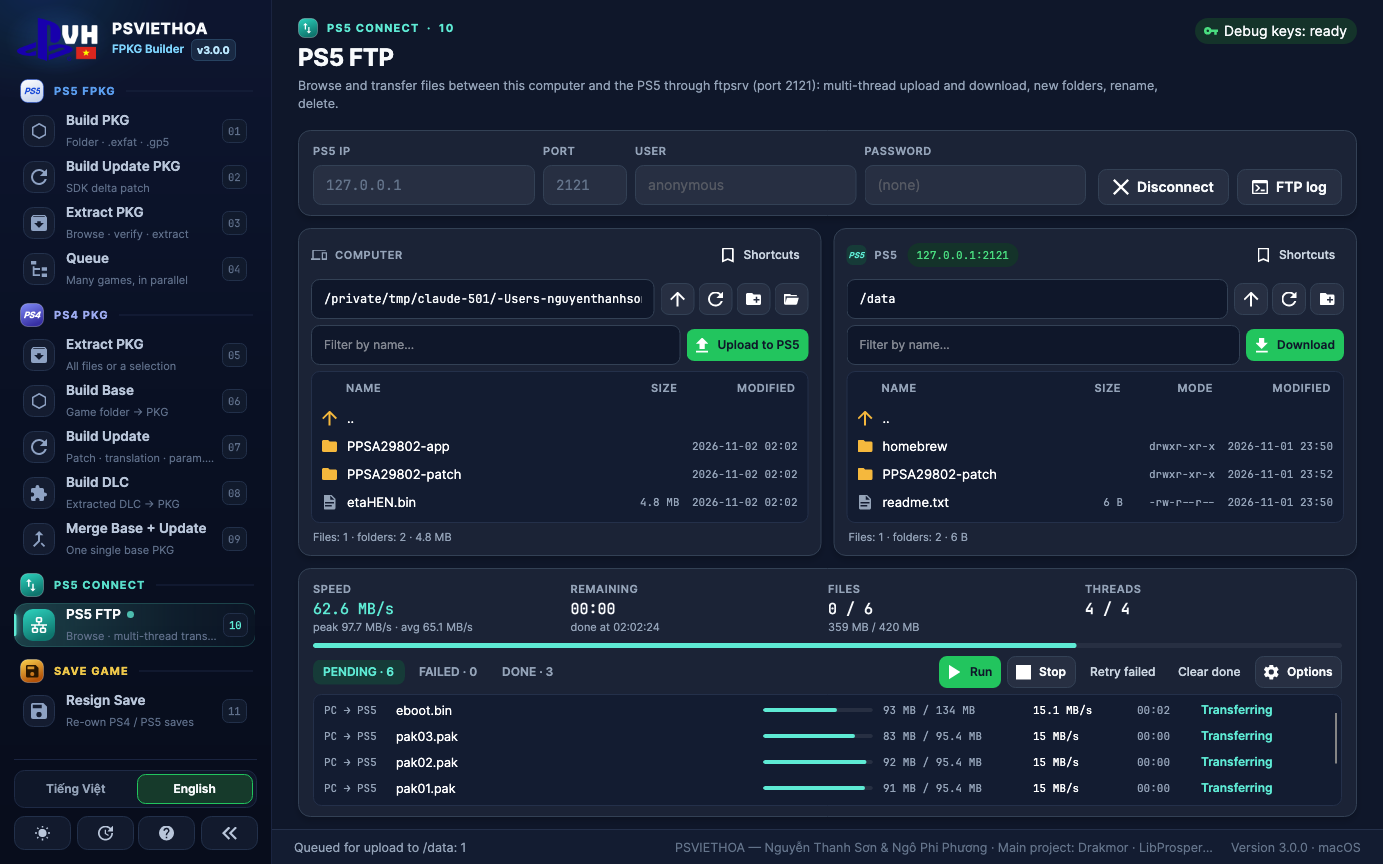
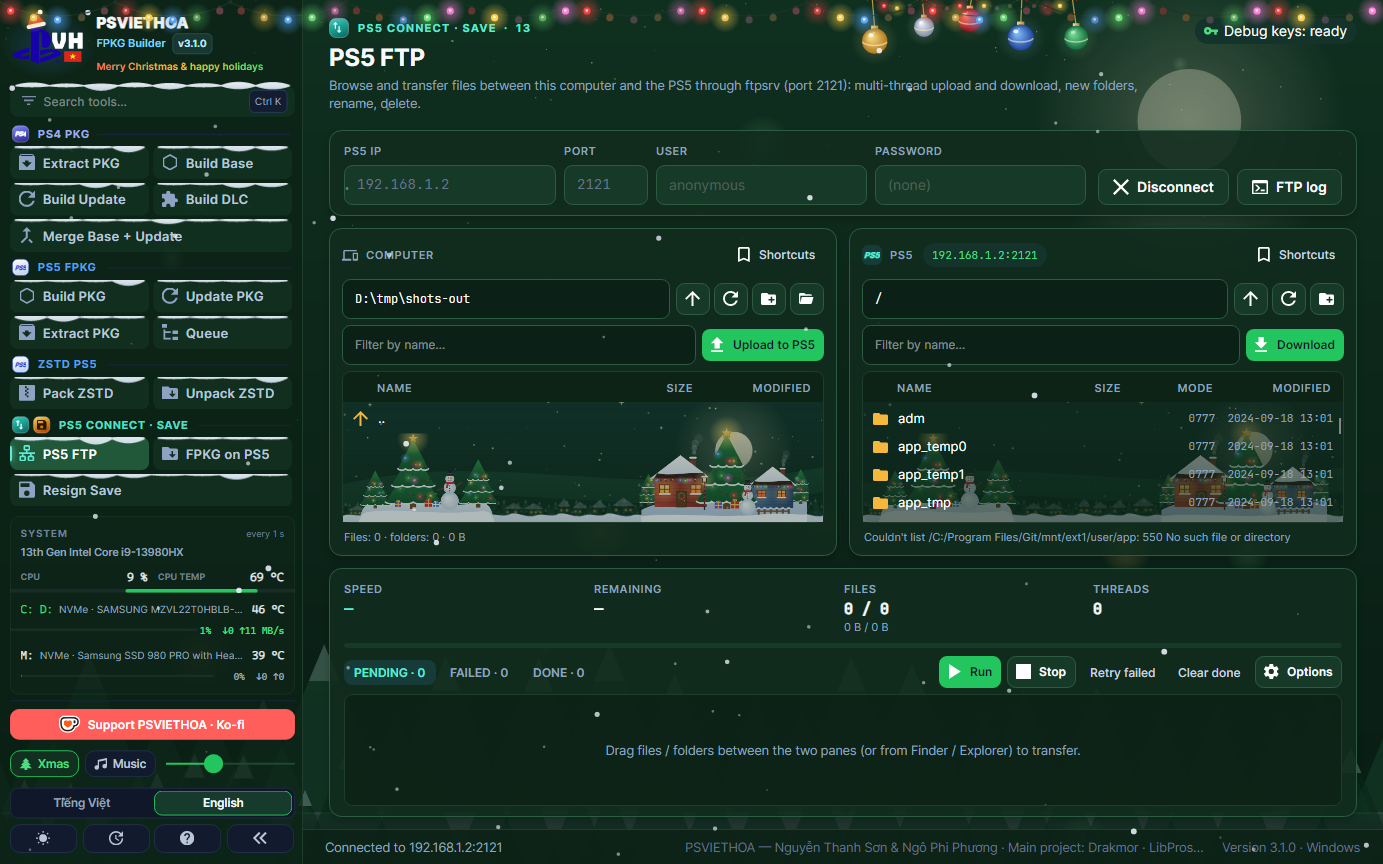
README: giới thiệu bản Giáng sinh, ảnh chụp mới (giao diện Giáng sinh, FPKG trên PS5)

diff --git a/docs/README.vi.md b/docs/README.vi.md
@@ -24,7 +24,7 @@
   <img src="screenshots/vi-ps4-patch-done.png" width="49%" alt="Đóng update PS4 thành công" />
 </p>
 <p align="center">
-  <img src="screenshots/vi-ftp.png" width="49%" alt="Truyền tệp FTP PS5" />
+  <img src="screenshots/vi-remote-pkg.png" width="49%" alt="FPKG trên PS5" />
   <img src="screenshots/vi-save.png" width="49%" alt="Hàng đợi Resign Save" />
 </p>
 
@@ -42,11 +42,21 @@
 |---|---|---|
 | <img src="https://img.shields.io/badge/PS5-FPKG-3B82F6" /> | **Tạo gói · Tạo gói Update · Giải nén gói · Hàng chờ** | FPKG PS5 (FIH debug) từ thư mục ứng dụng, ảnh `.exfat`, `.ffpfsc` / `.ffpfs` (exFAT hoặc PFS), `.ffpkg` hoặc dự án `.gp5` — bằng **Publishing Tools 2.79 của Sony** (mặc định) hoặc engine **LibProsperoPkg** của Drakmor. Gói update delta so với base đã cài, xem / giải nén gói, hàng chờ đóng gói song song. *Bộ công cụ SDK Sony `sdk-fpkg279-fix15`, giữ các bản sửa của 2.2.7.* |
 | <img src="https://img.shields.io/badge/PS4-PKG-6366F1" /> | **Xả PKG · Đóng Base · Đóng Update · Đóng DLC · Gộp Base + Update** | Gói fake PKG cho PS4 bằng **orbis-pub-cmd 3.87** (bản vá CyB1K) và **LibOrbisPkg**, theo đúng quy trình của PSVIETHOA STUDIO. Xem trước game ngay (icon, tên, Content ID, phiên bản), sửa `param.sfo`, xả từng tệp. |
-| <img src="https://img.shields.io/badge/ZSTD-PS5-22C55E" /> | **Đóng ZSTD · Giải ZSTD · Vá ZSTD** *(beta)* | Gói ZSTD của ps5-dump-forge với runtime **ampr-emu-ng 0.3.4**: game còn khoảng một nửa, giải ra đúng từng byte, và vá Việt hoá vào game đã đóng mà không cần giải ra. |
+| <img src="https://img.shields.io/badge/ZSTD-PS5-22C55E" /> | **Đóng ZSTD · Giải ZSTD · Vá ZSTD** *(beta)* | Gói ZSTD của ps5-dump-forge với runtime **ampr-emu-ng 0.4.1**: game còn khoảng một nửa, giải ra đúng từng byte, và vá Việt hoá vào game đã đóng mà không cần giải ra. |
+| <img src="https://img.shields.io/badge/PS5-FPKG%20tr%C3%AAn%20PS5-14B8A6" /> | **FPKG trên PS5** | Quét các FPKG đã cài trên PS5 qua FTP (tên game, icon, phiên bản, ổ), mở gói ngay trên máy và chỉ trích các tệp bạn chọn — không tải cả gói, không ghi gì lên PS5. |
 | <img src="https://img.shields.io/badge/PS5-FTP-14B8A6" /> | **FTP PS5** | Trình quản lý tệp hai khung cho máy chủ FTP trên PS5 (ftpsrv, etaHEN…): kéo tệp qua lại giữa hai khung hoặc từ Finder / Explorer, truyền nhiều luồng có tiếp tục khi bị ngắt, đổi tên / xoá / tạo thư mục, nhớ máy đã kết nối. |
 | <img src="https://img.shields.io/badge/SAVE-Resign-F59E0B" /> | **Resign Save** | Đổi chủ save PS4 / PS5 sang Account ID của bạn. Save đã giải mã được sửa ngay trên máy tính; save mã hoá đi qua **garlic-savemgr** trên PS5 (ứng dụng tự nạp). |
 
 > Gói PS5 là **FPKG debug** (ảnh FIH, byte chữ ký `0x00`), gói PS4 là **fake PKG** — chỉ cài được trên máy chạy homebrew tương ứng. Thư mục, ảnh đĩa và gói nguồn bạn chọn chỉ luôn được **đọc**.
+
+## Có gì mới — bản Giáng sinh
+
+- **Giao diện Giáng sinh** cho cả nền sáng và tối — tuyết rơi, dây đèn, xe tuần lộc ông già Noel, làng tuyết trong chỗ trống — kèm nhạc nền tự lặp. Nút *Noel* / *Nhạc* ở thanh bên để tắt.
+- **FPKG trên PS5** — xem các FPKG đã cài trên máy theo tên game và lấy từng tệp về `<Tên game> <PPSAxxxxx>` trên PC.
+- **Giải nén gói** — chọn ổ là tự tạo thư mục `<Tên game> <PPSAxxxxx>`.
+- **Khung Hệ thống** — tải và nhiệt CPU, nhiệt độ và tốc độ đọc / ghi từng ổ (Windows).
+- **ZSTD PS5** — runtime ampr-emu-ng **0.4.1**.
+- **Ủng hộ nhóm** — nút psviethoa.com / Ko-fi ở thanh bên.
 
 ## Có gì mới ở 3.1
 
@@ -185,7 +195,7 @@ libs/                               thành phần bên thứ ba, chỉ thay nguy
   LibOrbisPkg/                        PKG / PFS / SFO PS4 (Maxton, LGPL-3.0, kèm mã nguồn)
   orbis-pub/                          PS4 Fake PKG Tools 3.87 (CyB1K), bản gốc + engine nhanh
   garlic-savemgr/                     payload save PS5 (earthonion), kèm mã nguồn
-  ampr/                               runtime ampr-emu-ng 0.3.4 + ampr_emu 0.4.2.1 cho gói ZSTD (GPL-3.0-or-later)
+  ampr/                               runtime ampr-emu-ng 0.4.1 + ampr_emu 0.4.2.1 cho gói ZSTD (GPL-3.0-or-later)
 ```
 </details>
 
@@ -202,6 +212,10 @@ libs/                               thành phần bên thứ ba, chỉ thay nguy
 | Resign save xong (tiếng Anh) | Giao diện sáng |
 |---|---|
 | ![](screenshots/en-save-done.png) | ![](screenshots/en-light.png) |
+
+| FPKG trên PS5 | FTP PS5 |
+|---|---|
+| ![](screenshots/vi-remote-pkg.png) | ![](screenshots/vi-ftp.png) |
 
 | Hướng dẫn — ghi công |
 |---|

diff --git a/README.md b/README.md
@@ -24,7 +24,7 @@
   <img src="docs/screenshots/en-ps4-merge-done.png" width="49%" alt="PS4 base + update merged" />
 </p>
 <p align="center">
-  <img src="docs/screenshots/en-ftp.png" width="49%" alt="PS5 FTP transfer" />
+  <img src="docs/screenshots/en-remote-pkg.png" width="49%" alt="FPKG on PS5" />
   <img src="docs/screenshots/en-save-done.png" width="49%" alt="Saves resigned" />
 </p>
 
@@ -42,11 +42,21 @@
 |---|---|---|
 | <img src="https://img.shields.io/badge/PS5-FPKG-3B82F6" /> | **Build PKG · Build Update PKG · Extract PKG · Queue** | PS5 FPKG (FIH debug) from an app folder, an `.exfat`, `.ffpfsc` / `.ffpfs` (exFAT or PFS) or `.ffpkg` image or a `.gp5` project — through **Sony's Publishing Tools 2.79** (default) or Drakmor's **LibProsperoPkg** engine. Delta updates against an installed base, package inspection / extraction, parallel build queue. *Sony SDK toolkit `sdk-fpkg279-fix15`, with the 2.2.7 fixes kept.* |
 | <img src="https://img.shields.io/badge/PS4-PKG-6366F1" /> | **Extract PKG · Build Base · Build Update · Build DLC · Merge Base + Update** | PS4 fake PKGs with **orbis-pub-cmd 3.87** (CyB1K patch) and **LibOrbisPkg**, following the PSVIETHOA STUDIO workflow. Live preview of the game (icon, title, Content ID, version), `param.sfo` editor, per-file extraction. |
-| <img src="https://img.shields.io/badge/ZSTD-PS5-22C55E" /> | **Pack ZSTD · Unpack ZSTD · Patch ZSTD** *(beta)* | ps5-dump-forge ZSTD packs with the **ampr-emu-ng 0.3.4** runtime: the game shrinks to about half, unpacks byte-exact, and translations can be patched into a packed game without unpacking it (Vietnamese UI). |
+| <img src="https://img.shields.io/badge/ZSTD-PS5-22C55E" /> | **Pack ZSTD · Unpack ZSTD · Patch ZSTD** *(beta)* | ps5-dump-forge ZSTD packs with the **ampr-emu-ng 0.4.1** runtime: the game shrinks to about half, unpacks byte-exact, and translations can be patched into a packed game without unpacking it (Vietnamese UI). |
+| <img src="https://img.shields.io/badge/PS5-FPKG%20on%20PS5-14B8A6" /> | **FPKG on PS5** | Scans the FPKGs installed on the PS5 over FTP (title, icon, version, drive), opens a package in place and extracts only the files you pick — nothing is copied in full, nothing is written to the console. |
 | <img src="https://img.shields.io/badge/PS5-FTP-14B8A6" /> | **PS5 FTP** | Two-pane file manager for the PS5's FTP server (ftpsrv, etaHEN…): drag files between the panes or from Finder / Explorer, multi-connection transfers with resume, rename / delete / new folder, saved consoles. |
 | <img src="https://img.shields.io/badge/SAVE-Resign-F59E0B" /> | **Resign Save** | Re-own PS4 / PS5 saves to your Account ID. Decrypted saves are fixed right on the computer; encrypted ones go through **garlic-savemgr** on the PS5 (the app loads it for you). |
 
 > PS5 packages are **debug FPKGs** (FIH image, signature byte `0x00`) and PS4 packages are **fake PKGs** — they install only on consoles running the matching homebrew. The source folders, images and packages you pick are only ever **read**.
+
+## What's new — Christmas update
+
+- **Christmas theme** for light and dark mode — snow, string lights, Santa's sleigh, a snowy village in empty panels — and a looping soundtrack. *Noel* / *Music* in the sidebar turn them off.
+- **FPKG on PS5** — browse the FPKGs installed on the console by name and pull single files to `<Game> <PPSAxxxxx>` on the PC.
+- **Extract PKG** — pick a drive and the `<Game> <PPSAxxxxx>` folder is created for you.
+- **System panel** — CPU load and temperature, drive temperatures and read / write speed (Windows).
+- **ZSTD PS5** — ampr-emu-ng **0.4.1** runtime.
+- **Support us** — Ko-fi / psviethoa.com button in the sidebar.
 
 ## What's new in 3.1
 
@@ -185,7 +195,7 @@ libs/                               third-party, replaced only as a whole:
   LibOrbisPkg/                        PS4 PKG / PFS / SFO (Maxton, LGPL-3.0, source included)
   orbis-pub/                          PS4 Fake PKG Tools 3.87 (CyB1K), original + fast engine
   garlic-savemgr/                     PS5 save payload (earthonion), source included
-  ampr/                               ampr-emu-ng 0.3.4 + ampr_emu 0.4.2.1 runtimes for ZSTD packs (GPL-3.0-or-later)
+  ampr/                               ampr-emu-ng 0.4.1 + ampr_emu 0.4.2.1 runtimes for ZSTD packs (GPL-3.0-or-later)
 ```
 </details>
 
@@ -202,6 +212,10 @@ libs/                               third-party, replaced only as a whole:
 | Resign Save queue (Vietnamese) | Light theme |
 |---|---|
 | ![](docs/screenshots/vi-save.png) | ![](docs/screenshots/en-light.png) |
+
+| FPKG on PS5 (Vietnamese) | PS5 FTP |
+|---|---|
+| ![](docs/screenshots/vi-remote-pkg.png) | ![](docs/screenshots/en-ftp.png) |
 
 | Help — credits |
 |---|
